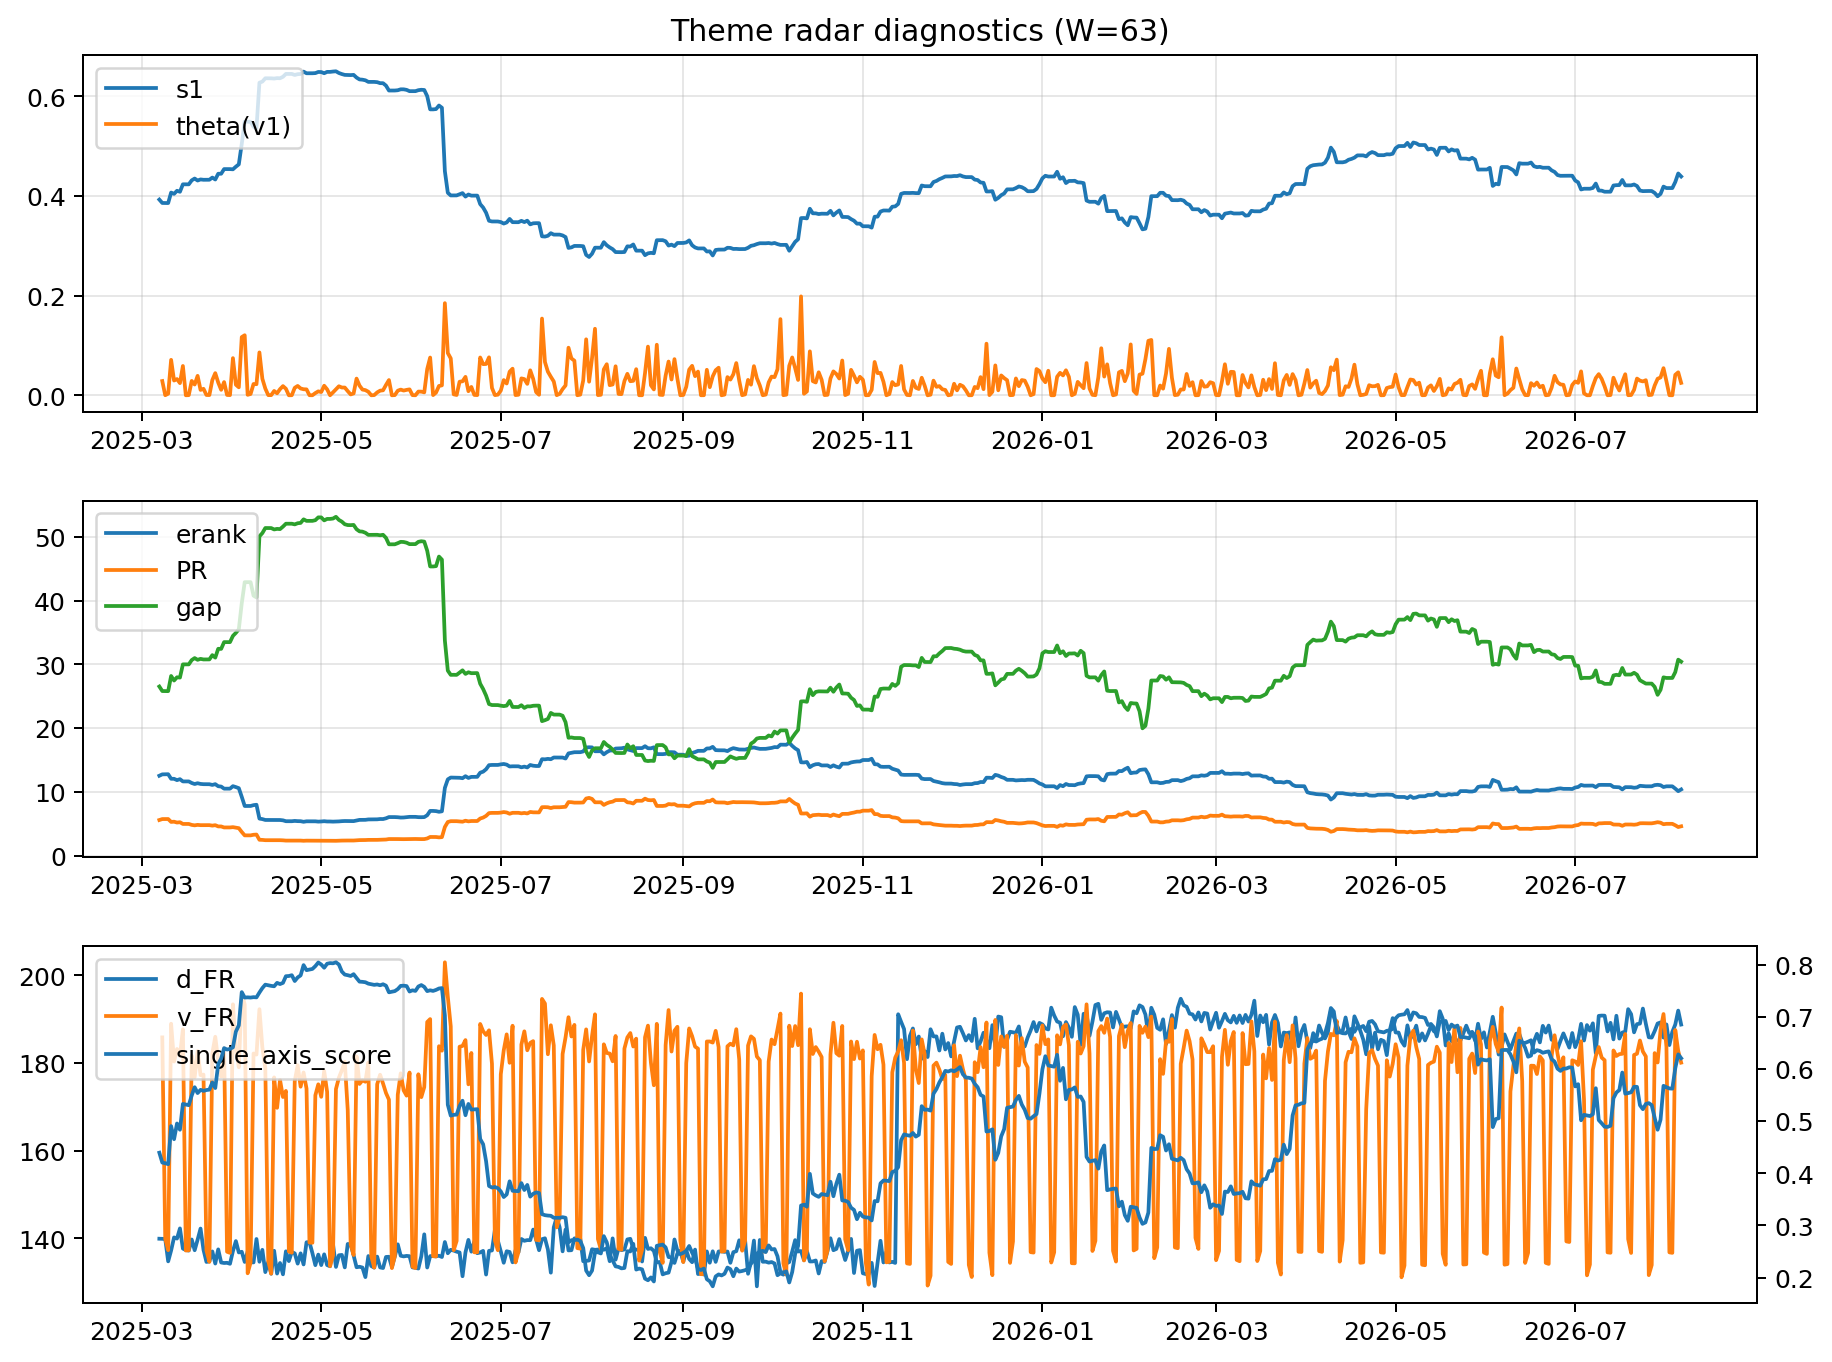
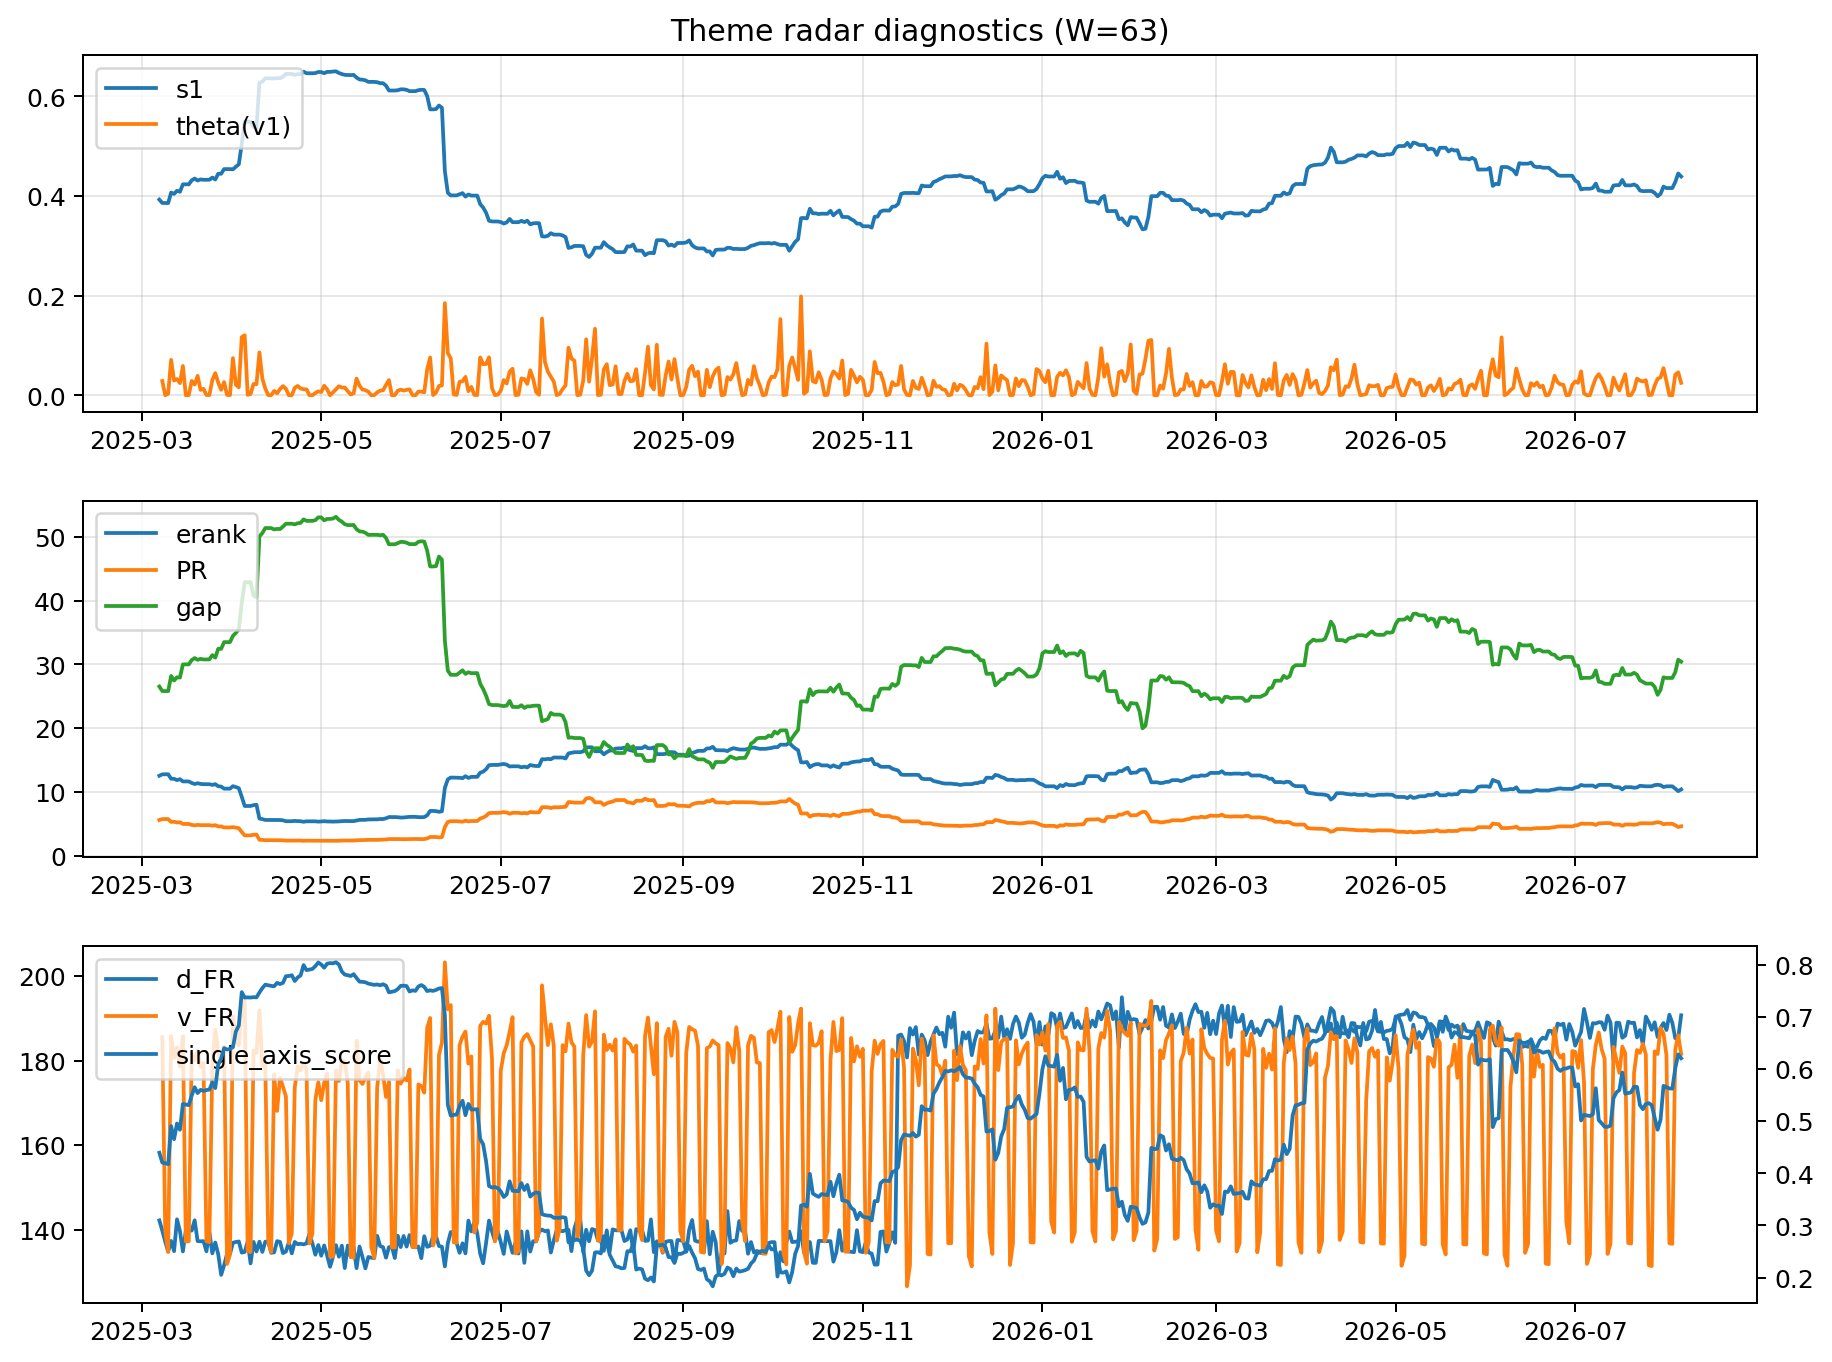
log: 2026-08-06 | sha256:34d2516e8bf81307b48b5b1fe0352f7879677d0a0907864f0d460cda058c9426

diff --git a/logs/2026-08-06.md b/logs/2026-08-06.md
@@ -3,43 +3,43 @@
 ![diagnostic W63](../assets/diagnostic/2026-08-06_W63.png)
 
 ## Leaders (v1) — W=63
-- **Nuclear_Uranium** (0.0867587175818699)
-- Semis (0.0676621678253929)
-- Quantum (0.0570421355625971)
+- **Nuclear_Uranium** (0.0867587151353844)
+- Semis (0.0676621662781402)
+- Quantum (0.057042135296894)
 
 ## Challengers — W=63
-**v2:** Rates (0.0835382867688734), Semis (0.0828284521546443), Software_Cloud (0.0653750628283745)
-**v3:** Software_Cloud (0.0864828339434583), DataCenter_Infra (0.0772721366477408), MegaCap_AI (0.0614296517934205)
+**v2:** Rates (0.0835380514929821), Semis (0.0828284667730985), Software_Cloud (0.0653751154271167)
+**v3:** Software_Cloud (0.0864828554057613), DataCenter_Infra (0.0772722599477467), MegaCap_AI (0.0614296715992512)
 
 ## Migration (20D slope) — W=63
 **Top risers:**
-- axis_Quantum: 0.0005257523430377
-- axis_Crypto: 0.0002878619206447
-- axis_Space: 0.0002818335202201
-- axis_Nuclear_Uranium: 0.0001917380170507
-- axis_Semis: 0.0001570711636278
-- axis_Cyber: 0.0001548863338162
-- axis_Drones_Autonomy: 0.0001415354235236
-- axis_Sector_RealEstate: 0.0001289618885456
-- axis_Sector_Health: 6.491682129965269e-05
-- axis_Sector_Utilities: 4.766637808137716e-05
+- axis_Quantum: 0.0005257528568984
+- axis_Crypto: 0.0002878619743647
+- axis_Space: 0.0002818331388094
+- axis_Nuclear_Uranium: 0.0001917380865796
+- axis_Semis: 0.0001570704554128
+- axis_Cyber: 0.0001548862551804
+- axis_Drones_Autonomy: 0.0001415356108636
+- axis_Sector_RealEstate: 0.0001289618004823
+- axis_Sector_Health: 6.491660046051531e-05
+- axis_Sector_Utilities: 4.766616795840959e-05
 
 **Top fallers:**
-- axis_MegaCap_AI: -7.658499683183116e-05
-- axis_DataCenter_Infra: -9.138170358202069e-05
-- axis_Defense: -9.39903342734762e-05
-- axis_USD: -0.0001077527561574
-- axis_Sector_ConsDisc: -0.0001382079093524
-- axis_Sector_Energy: -0.0001385867891026
-- axis_Credit: -0.000173423540254
-- axis_Sector_Comm: -0.0001739207692567
-- axis_Sector_Materials: -0.0001931604778867
-- axis_Rates: -0.0007003002349858
+- axis_MegaCap_AI: -7.658505812850537e-05
+- axis_DataCenter_Infra: -9.13815872349908e-05
+- axis_Defense: -9.399039141806776e-05
+- axis_USD: -0.0001077527728683
+- axis_Sector_ConsDisc: -0.0001382080328077
+- axis_Sector_Energy: -0.0001385868627356
+- axis_Credit: -0.0001734212969515
+- axis_Sector_Comm: -0.0001739207835211
+- axis_Sector_Materials: -0.0001931605438303
+- axis_Rates: -0.000700298445604
 
 ## Risk line (W=63)
-- s1: 0.4389106149384609
-- theta_v1: 0.0249154623174988
-- v_FR: 180.10199863355757
+- s1: 0.4389106327110412
+- theta_v1: 0.0249154299302999
+- v_FR: 181.57436642659843
 - single_axis_score: 0.6204633204633205
 
 ## Interpretation
@@ -48,7 +48,7 @@
 - Action: Tomorrow watchlist: Quantum, Crypto, Space, Nuclear_Uranium, Semis + v2_top1=Rates
 - Action: Hedge note: normal correlation stability.
 
-- Percentiles (W=63 history): vfr_pct=0.47, theta_pct=0.58, s1_pct=0.66, score_pct=0.71.
+- Percentiles (W=63 history): vfr_pct=0.54, theta_pct=0.58, s1_pct=0.66, score_pct=0.71.
 
 ---
[2 lines of base64/hex data omitted]
